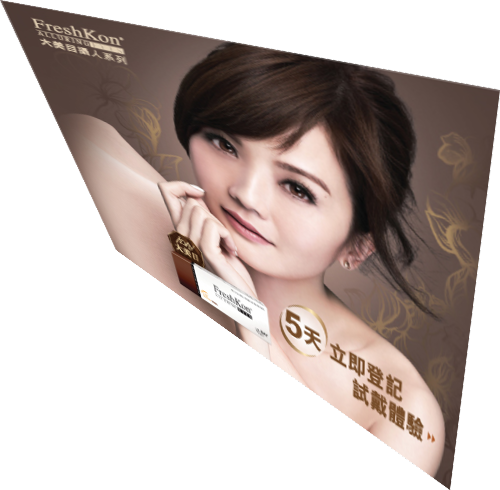
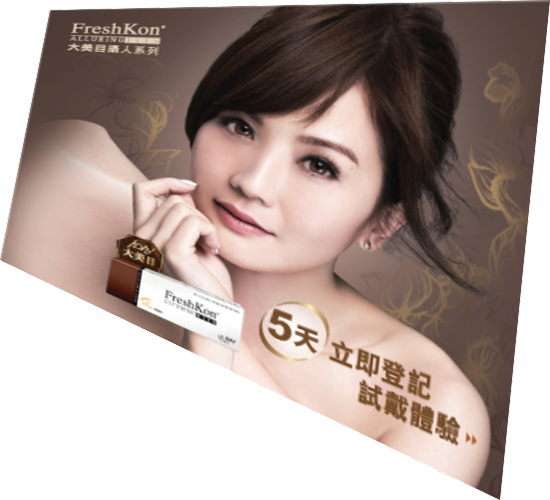
improve the warp

diff --git a/src/uvm/Quad.java b/src/uvm/Quad.java
@@ -9,6 +9,7 @@ public class Quad implements Comparable<Quad> {
 	public float[] points;
 	public UvImage image;
 	public int id;
+	private float minX, minY, maxX, maxY;
 
 	private PImage warped;
 
@@ -16,6 +17,11 @@ public class Quad implements Comparable<Quad> {
 
 		this.points = pts;
 		this.id = ID_GEN++;
+		this.minX = 10000;//depends on the UV data
+		this.minY = 10000;
+		this.maxX = 0;
+		this.maxY = 0;
+
 	}
 
 	public Quad image(UvImage image) {
@@ -25,10 +31,12 @@ public class Quad implements Comparable<Quad> {
 	}
 
 	public String toConvertCommand() {
-
-		float[] npts = normalizeQuadPosition();
 		
+		calculatQuadBorder();
+		
+		float[] npts = normalizeQuadPosition();
 		int[] newImageSize = getNewImageSize();
+		
 		image.width = newImageSize[0];
 		image.height = newImageSize[1];
 	
@@ -36,6 +44,7 @@ public class Quad implements Comparable<Quad> {
 		for (int i = 0, j = 0; i < srcDst.length; i++) {
 			if (i % 4 > 1) srcDst[i] = npts[j++];
 		}
+		
 		srcDst[4] = srcDst[8] = image.width;
 		srcDst[9] = srcDst[13] = image.height;
     
@@ -53,14 +62,21 @@ public class Quad implements Comparable<Quad> {
 	private float[] normalizeQuadPosition() {
 
 		float[] n = new float[points.length];
+		float referenceX;
+		float referenceY;
 		for (int i = 0; i < n.length; i++)
-			n[i] = points[i] - (i % 2 == 0 ? points[0] : points[1]);
+			n[i] = points[i] - (i % 2 == 0 ? minX : minY);
 		return n;
 	}
 
 	private int[] getNewImageSize() {
-
-		float maxX = 0, minX = 100000, maxY = 0, minY = 100000;
+		System.out.println(minX + " " + minY + " " +maxX +  " " + maxY);
+		int[] size = {Math.round(maxX-minX), Math.round(maxY-minY)};
+		return size;
+	}
+	
+	private void calculatQuadBorder() {
+		
 		for (int i = 0; i < points.length; i += 2) {
 			
 			if (points[i] > maxX) maxX = points[i];
@@ -68,9 +84,9 @@ public class Quad implements Comparable<Quad> {
 			if (points[i + 1] > maxY) maxY = points[i+1];
 			if (points[i + 1] < minY) minY = points[i+1];
 		}
-
-		int[] size = {Math.round(maxX-minX), Math.round(maxY-minY)};
-		return size;
+		
+//		System.out.println(minX + " " + minY + " " +maxX +  " " + maxY);
+		
 	}
 	
 	public float area() {
@@ -105,7 +121,7 @@ public class Quad implements Comparable<Quad> {
 		p.stroke(0);
 //		p.imageMode(PApplet.CORNERS);
 		
-		p.image(this.warped, points[0], points[1], image.width, image.height);
+		p.image(this.warped, minX, minY, image.width, image.height);
 		p.quad(points[0], points[1], points[2], points[3], points[4], points[5], points[6], points[7]);
 	
 		return this;
